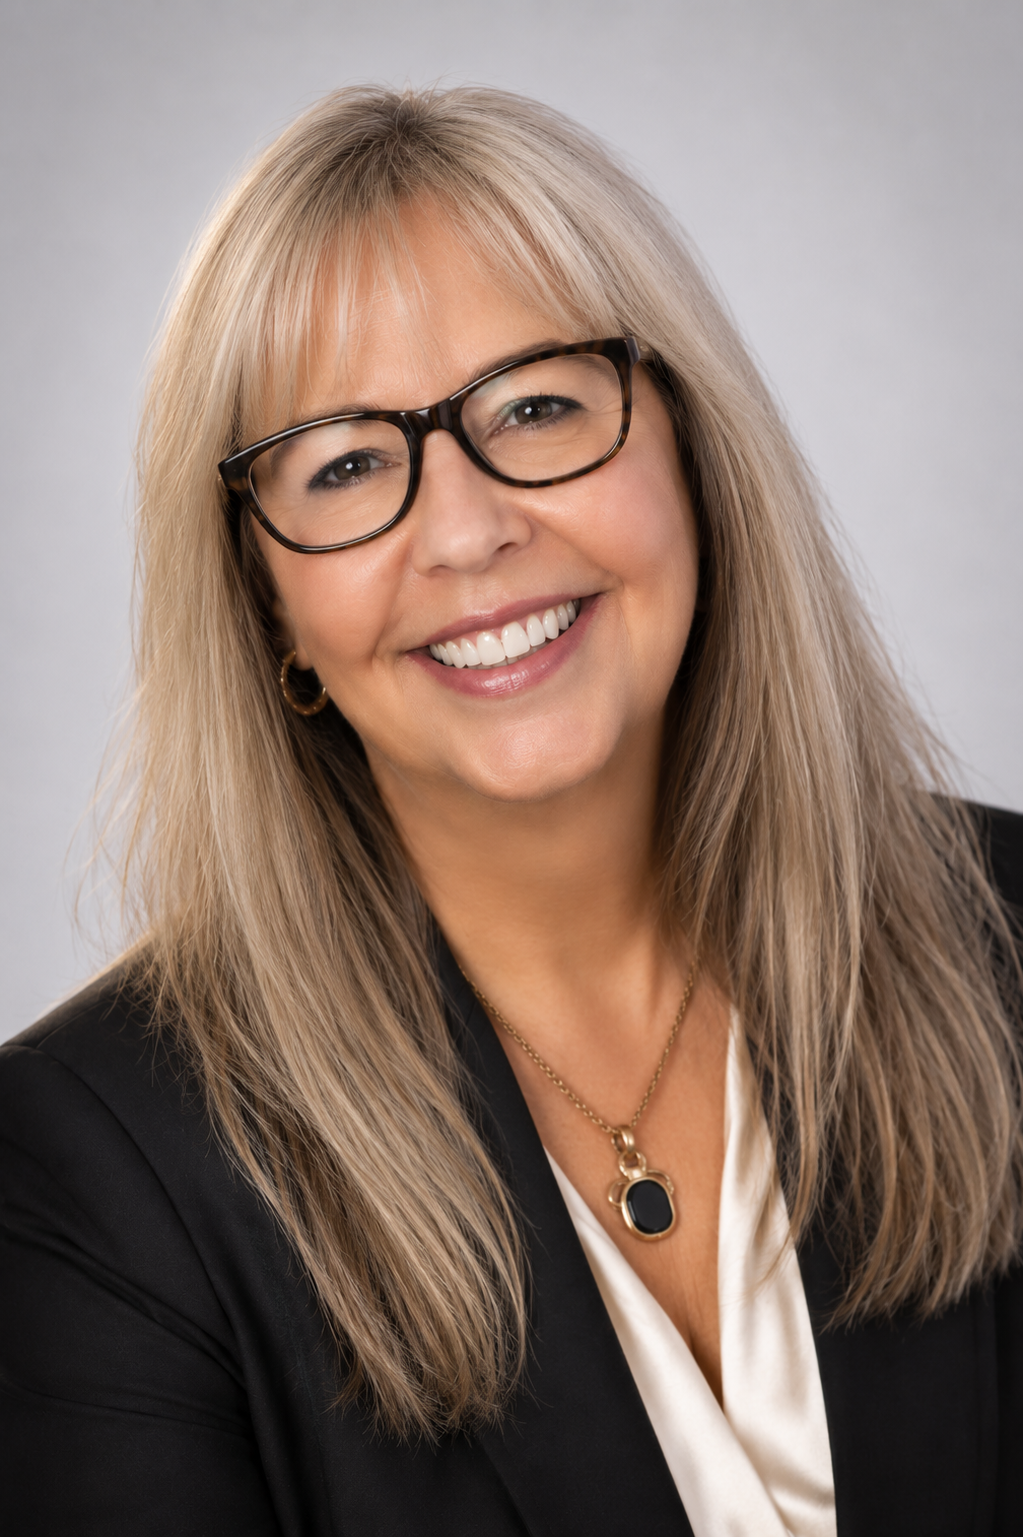
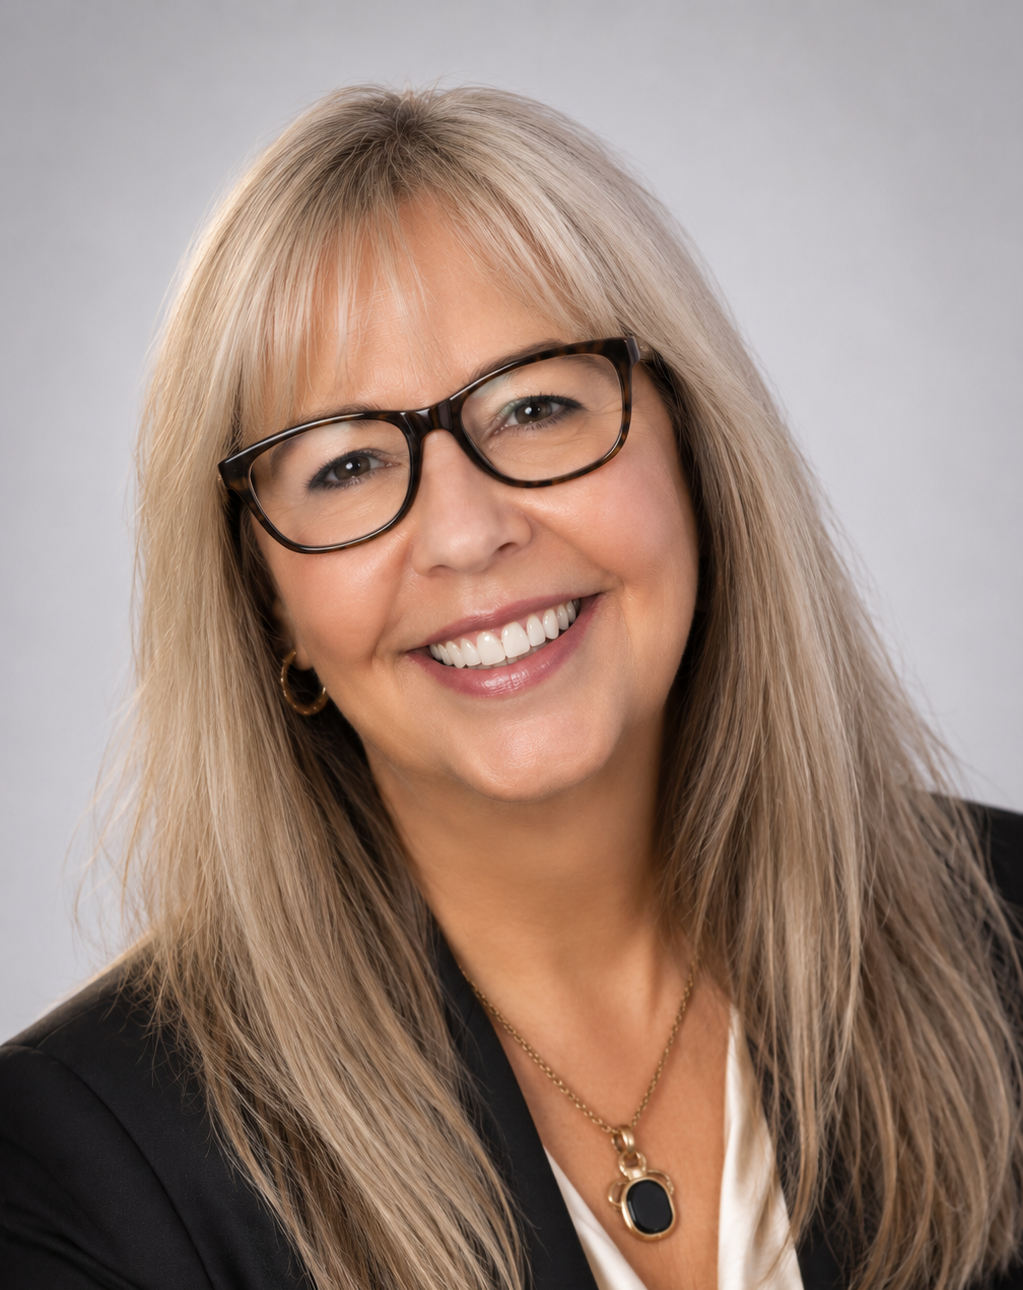
Update team roster, brand story, and site stats
Overhaul the team section with real members and titles (Skip B., Raphael P., Beth H., Meadow D., Sasha V., Flactoid J., Liz P.), update brand story timeline copy, change "Free Shipping 50+" to "Philanthropy Forward", and replace "4 Service Areas" with "$40k+ Raised for Charity". Add new team photos and CLAUDE.md project docs.

diff --git a/index.html b/index.html
@@ -231,7 +231,7 @@
         </div>
         <div class="flex items-center gap-2">
           <svg class="w-5 h-5 text-brand-green-deep" fill="currentColor" viewBox="0 0 20 20"><path fill-rule="evenodd" d="M10 18a8 8 0 100-16 8 8 0 000 16zm3.707-9.293a1 1 0 00-1.414-1.414L9 10.586 7.707 9.293a1 1 0 00-1.414 1.414l2 2a1 1 0 001.414 0l4-4z" clip-rule="evenodd"/></svg>
-          Free Shipping 50+
+          Philanthropy Forward
         </div>
         <div class="flex items-center gap-2">
           <svg class="w-5 h-5 text-brand-green-deep" fill="currentColor" viewBox="0 0 20 20"><path fill-rule="evenodd" d="M10 18a8 8 0 100-16 8 8 0 000 16zm3.707-9.293a1 1 0 00-1.414-1.414L9 10.586 7.707 9.293a1 1 0 00-1.414 1.414l2 2a1 1 0 001.414 0l4-4z" clip-rule="evenodd"/></svg>
@@ -277,8 +277,8 @@
               <div class="text-sm text-brand-charcoal/60 dark:text-gray-400 mt-1">Happy Customers</div>
             </div>
             <div class="text-center">
-              <div class="font-serif text-3xl md:text-4xl text-brand-green-deep font-bold">4</div>
-              <div class="text-sm text-brand-charcoal/60 dark:text-gray-400 mt-1">Service Areas</div>
+              <div class="font-serif text-3xl md:text-4xl text-brand-green-deep font-bold">$40k+</div>
+              <div class="text-sm text-brand-charcoal/60 dark:text-gray-400 mt-1">Raised for Charity</div>
             </div>
             <div class="text-center">
               <div class="font-serif text-3xl md:text-4xl text-brand-green-deep font-bold">100%</div>
@@ -346,7 +346,7 @@
       <div class="max-w-3xl mx-auto text-center reveal">
         <span class="inline-block text-brand-green-deep font-semibold text-sm tracking-widest uppercase mb-4">Our Story</span>
         <h2 class="font-serif text-3xl md:text-4xl lg:text-5xl text-brand-charcoal dark:text-white mb-8">
-          From a Napkin Sketch to a Movement
+          From a Thought to a Movement
         </h2>
       </div>
 
@@ -359,7 +359,7 @@
           </div>
           <div class="pb-8">
             <h3 class="font-serif text-xl text-brand-charcoal dark:text-white mb-2">The Spark</h3>
-            <p class="text-brand-charcoal/70 dark:text-gray-300 leading-relaxed">It all started with a doodle during a late-night study session. A cow with glasses, holding a book about spinach. The character was so endearing that friends started asking for stickers, then shirts, then more. Spinach the Cow was born from a genuine love of learning and a belief that education should feel joyful — not like a chore.</p>
+            <p class="text-brand-charcoal/70 dark:text-gray-300 leading-relaxed">It all started with a bored doodle during a breakout session. A cow with glasses, holding a book. The character was so endearing that friends started asking for stickers, then shirts, then more. Spinach the Cow was born from a genuine love of learning and a belief that education should feel joyful — not like a chore.</p>
           </div>
         </div>
 
@@ -370,7 +370,7 @@
           </div>
           <div class="pb-8">
             <h3 class="font-serif text-xl text-brand-charcoal dark:text-white mb-2">Growing the Herd</h3>
-            <p class="text-brand-charcoal/70 dark:text-gray-300 leading-relaxed">What began as a small Etsy shop became something bigger. We launched our first children's book, built a community of thousands who believe in lifting each other up, and created a brand that stands for something real. Every product was designed with intention: to spark conversation, encourage growth, and bring people together.</p>
+            <p class="text-brand-charcoal/70 dark:text-gray-300 leading-relaxed">What began as a small Shopify store became something bigger. We are building a community of thousands who believe in lifting each other up, and created a brand that stands for something real. Every product was designed with intention: to spark conversation, encourage growth, and bring people together.</p>
           </div>
         </div>
 
@@ -379,8 +379,8 @@
             <div class="w-12 h-12 rounded-full bg-brand-green-deep text-white flex items-center justify-center font-bold text-sm shrink-0">2026</div>
           </div>
           <div>
-            <h3 class="font-serif text-xl text-brand-charcoal dark:text-white mb-2">The Future is Green</h3>
-            <p class="text-brand-charcoal/70 dark:text-gray-300 leading-relaxed">Today, Spinach the Cow is more than merchandise — it's a movement. We're expanding into home goods, wellness products, and educational content. Our mission remains the same: help others, strengthen our community, and inspire everyone to be the best version of themselves. And yes, Spinach still loves her books.</p>
+            <h3 class="font-serif text-xl text-brand-charcoal dark:text-white mb-2">The Future is Spinach</h3>
+            <p class="text-brand-charcoal/70 dark:text-gray-300 leading-relaxed">Today, Spinach the Cow is more than merchandise — it's a movement. We're expanding into engagning and educational content. Our mission remains the same: help others, strengthen our community, and inspire everyone to be the best version of themselves.</p>
           </div>
         </div>
       </div>
@@ -459,10 +459,10 @@
 
       <div class="grid sm:grid-cols-2 md:grid-cols-3 lg:grid-cols-4 gap-6">
 
-        <!-- Andrew — Founder -->
+        <!-- Andrew M. — Founder -->
         <div class="reveal card-hover bg-brand-cream dark:bg-gray-800 rounded-2xl overflow-hidden shadow-sm">
           <div class="aspect-square relative overflow-hidden">
-            <img src="images/team/Andrew.jpg" alt="Andrew — Founder" class="w-full h-full object-cover" onerror="this.style.display='none'; this.nextElementSibling.style.display='flex';" />
+            <img src="images/team/Andrew.png" alt="Andrew M. — Founder" class="w-full h-full object-cover" onerror="this.style.display='none'; this.nextElementSibling.style.display='flex';" />
             <div class="absolute inset-0 bg-gradient-to-br from-brand-green/40 to-brand-beige/40 items-center justify-center hidden">
               <div class="w-20 h-20 rounded-full bg-white/80 flex items-center justify-center">
                 <svg class="w-10 h-10 text-brand-charcoal/30" fill="currentColor" viewBox="0 0 24 24"><path d="M12 12c2.21 0 4-1.79 4-4s-1.79-4-4-4-4 1.79-4 4 1.79 4 4 4zm0 2c-2.67 0-8 1.34-8 4v2h16v-2c0-2.66-5.33-4-8-4z"/></svg>
@@ -470,16 +470,16 @@
             </div>
           </div>
           <div class="p-5">
-            <h3 class="font-serif text-lg text-brand-charcoal dark:text-white">Andrew</h3>
+            <h3 class="font-serif text-lg text-brand-charcoal dark:text-white">Andrew M.</h3>
             <p class="text-sm font-semibold text-brand-green-deep mt-0.5">Founder &amp; Chief Cow Officer</p>
             <p class="text-xs text-brand-charcoal/60 dark:text-gray-400 mt-2 leading-relaxed">The visionary behind Spinach the Cow. Built the herd from scratch and keeps the whole operation mooo-ving.</p>
           </div>
         </div>
 
-        <!-- Bubba — Trend Researcher -->
+        <!-- Skip B. — President -->
         <div class="reveal card-hover bg-brand-cream dark:bg-gray-800 rounded-2xl overflow-hidden shadow-sm">
           <div class="aspect-square relative overflow-hidden">
-            <img src="images/team/Bubba.jpg" alt="Bubba — Trend Researcher" class="w-full h-full object-cover" onerror="this.style.display='none'; this.nextElementSibling.style.display='flex';" />
+            <img src="images/team/Skip.png" alt="Skip B. — President" class="w-full h-full object-cover" onerror="this.style.display='none'; this.nextElementSibling.style.display='flex';" />
             <div class="absolute inset-0 bg-gradient-to-br from-brand-green/40 to-brand-sky/40 items-center justify-center hidden">
               <div class="w-20 h-20 rounded-full bg-white/80 flex items-center justify-center">
                 <svg class="w-10 h-10 text-brand-charcoal/30" fill="currentColor" viewBox="0 0 24 24"><path d="M12 12c2.21 0 4-1.79 4-4s-1.79-4-4-4-4 1.79-4 4 1.79 4 4 4zm0 2c-2.67 0-8 1.34-8 4v2h16v-2c0-2.66-5.33-4-8-4z"/></svg>
@@ -487,16 +487,33 @@
             </div>
           </div>
           <div class="p-5">
-            <h3 class="font-serif text-lg text-brand-charcoal dark:text-white">Bubba</h3>
-            <p class="text-sm font-semibold text-brand-green-deep mt-0.5">Director of Market Intelligence</p>
-            <p class="text-xs text-brand-charcoal/60 dark:text-gray-400 mt-2 leading-relaxed">Scrapes Google Trends, Reddit, and the seasonal calendar to find what's next before everyone else does.</p>
+            <h3 class="font-serif text-lg text-brand-charcoal dark:text-white">Skip B.</h3>
+            <p class="text-sm font-semibold text-brand-green-deep mt-0.5">President</p>
+            <p class="text-xs text-brand-charcoal/60 dark:text-gray-400 mt-2 leading-relaxed">The steady hand at the helm. Skip keeps the herd aligned, the mission on track, and the culture strong.</p>
           </div>
         </div>
 
-        <!-- Clark — Quality Analyst -->
+        <!-- Raphael P. — Chief Operating Officer -->
         <div class="reveal card-hover bg-brand-cream dark:bg-gray-800 rounded-2xl overflow-hidden shadow-sm">
           <div class="aspect-square relative overflow-hidden">
-            <img src="images/team/Clark.jpg" alt="Clark — Quality Analyst" class="w-full h-full object-cover" onerror="this.style.display='none'; this.nextElementSibling.style.display='flex';" />
+            <img src="images/team/Raphael.png" alt="Raphael P. — Chief Operating Officer" class="w-full h-full object-cover" onerror="this.style.display='none'; this.nextElementSibling.style.display='flex';" />
+            <div class="absolute inset-0 bg-gradient-to-br from-brand-green/40 to-brand-sky/40 items-center justify-center hidden">
+              <div class="w-20 h-20 rounded-full bg-white/80 flex items-center justify-center">
+                <svg class="w-10 h-10 text-brand-charcoal/30" fill="currentColor" viewBox="0 0 24 24"><path d="M12 12c2.21 0 4-1.79 4-4s-1.79-4-4-4-4 1.79-4 4 1.79 4 4 4zm0 2c-2.67 0-8 1.34-8 4v2h16v-2c0-2.66-5.33-4-8-4z"/></svg>
+              </div>
+            </div>
+          </div>
+          <div class="p-5">
+            <h3 class="font-serif text-lg text-brand-charcoal dark:text-white">Raphael P.</h3>
+            <p class="text-sm font-semibold text-brand-green-deep mt-0.5">Chief Operating Officer</p>
+            <p class="text-xs text-brand-charcoal/60 dark:text-gray-400 mt-2 leading-relaxed">Leading the amazing teams behind the scenes that bring our sustainable lifestyle designs from concept to your doorstep.</p>
+          </div>
+        </div>
+
+        <!-- Beth H. — Chief Financial Officer -->
+        <div class="reveal card-hover bg-brand-cream dark:bg-gray-800 rounded-2xl overflow-hidden shadow-sm">
+          <div class="aspect-square relative overflow-hidden">
+            <img src="images/team/Beth.png" alt="Beth H. — Chief Financial Officer" class="w-full h-full object-cover" onerror="this.style.display='none'; this.nextElementSibling.style.display='flex';" />
             <div class="absolute inset-0 bg-gradient-to-br from-brand-sky/40 to-brand-beige/40 items-center justify-center hidden">
               <div class="w-20 h-20 rounded-full bg-white/80 flex items-center justify-center">
                 <svg class="w-10 h-10 text-brand-charcoal/30" fill="currentColor" viewBox="0 0 24 24"><path d="M12 12c2.21 0 4-1.79 4-4s-1.79-4-4-4-4 1.79-4 4 1.79 4 4 4zm0 2c-2.67 0-8 1.34-8 4v2h16v-2c0-2.66-5.33-4-8-4z"/></svg>
@@ -504,50 +521,33 @@
             </div>
           </div>
           <div class="p-5">
-            <h3 class="font-serif text-lg text-brand-charcoal dark:text-white">Clark</h3>
-            <p class="text-sm font-semibold text-brand-green-deep mt-0.5">Head of Quality Assurance</p>
-            <p class="text-xs text-brand-charcoal/60 dark:text-gray-400 mt-2 leading-relaxed">Scores every trend, filters by threshold, and runs risk checks so only the best ideas make the cut.</p>
+            <h3 class="font-serif text-lg text-brand-charcoal dark:text-white">Beth H.</h3>
+            <p class="text-sm font-semibold text-brand-green-deep mt-0.5">Chief Financial Officer</p>
+            <p class="text-xs text-brand-charcoal/60 dark:text-gray-400 mt-2 leading-relaxed">Balancing fiscal responsibility with creative ambition to responsibly scale the brand our community loves.</p>
           </div>
         </div>
 
-        <!-- Lewis — Visual Designer -->
+        <!-- Meadow D. — Creative Director -->
         <div class="reveal card-hover bg-brand-cream dark:bg-gray-800 rounded-2xl overflow-hidden shadow-sm">
           <div class="aspect-square relative overflow-hidden">
-            <img src="images/team/Lewis.jpg" alt="Lewis — Visual Designer" class="w-full h-full object-cover" onerror="this.style.display='none'; this.nextElementSibling.style.display='flex';" />
-            <div class="absolute inset-0 bg-gradient-to-br from-brand-beige/40 to-brand-green/40 items-center justify-center hidden">
+            <img src="images/team/Meadow.png" alt="Meadow D. — Creative Director" class="w-full h-full object-cover" onerror="this.style.display='none'; this.nextElementSibling.style.display='flex';" />
+            <div class="absolute inset-0 bg-gradient-to-br from-brand-beige/40 to-brand-sky/40 items-center justify-center hidden">
               <div class="w-20 h-20 rounded-full bg-white/80 flex items-center justify-center">
                 <svg class="w-10 h-10 text-brand-charcoal/30" fill="currentColor" viewBox="0 0 24 24"><path d="M12 12c2.21 0 4-1.79 4-4s-1.79-4-4-4-4 1.79-4 4 1.79 4 4 4zm0 2c-2.67 0-8 1.34-8 4v2h16v-2c0-2.66-5.33-4-8-4z"/></svg>
               </div>
             </div>
           </div>
           <div class="p-5">
-            <h3 class="font-serif text-lg text-brand-charcoal dark:text-white">Lewis</h3>
-            <p class="text-sm font-semibold text-brand-green-deep mt-0.5">Lead Visual Artist</p>
-            <p class="text-xs text-brand-charcoal/60 dark:text-gray-400 mt-2 leading-relaxed">Brings ideas to life with stunning visuals and creative designs.</p>
+            <h3 class="font-serif text-lg text-brand-charcoal dark:text-white">Meadow D.</h3>
+            <p class="text-sm font-semibold text-brand-green-deep mt-0.5">Chief Creative Officer</p>
+            <p class="text-xs text-brand-charcoal/60 dark:text-gray-400 mt-2 leading-relaxed">Drew's Mind — the personal ideas engine that shapes the creative vision behind everything Spinach.</p>
           </div>
         </div>
 
-        <!-- Flactoid Johnson — Text Designer -->
+         <!-- Sasha V. — Director of Innovation & Design -->
         <div class="reveal card-hover bg-brand-cream dark:bg-gray-800 rounded-2xl overflow-hidden shadow-sm">
           <div class="aspect-square relative overflow-hidden">
-            <img src="images/team/Flactoid.png" alt="Flactoid Johnson — Text Designer" class="w-full h-full object-cover" onerror="this.style.display='none'; this.nextElementSibling.style.display='flex';" />
-            <div class="absolute inset-0 bg-gradient-to-br from-brand-green/40 to-brand-beige/40 items-center justify-center hidden">
-              <div class="w-20 h-20 rounded-full bg-white/80 flex items-center justify-center">
-                <svg class="w-10 h-10 text-brand-charcoal/30" fill="currentColor" viewBox="0 0 24 24"><path d="M12 12c2.21 0 4-1.79 4-4s-1.79-4-4-4-4 1.79-4 4 1.79 4 4 4zm0 2c-2.67 0-8 1.34-8 4v2h16v-2c0-2.66-5.33-4-8-4z"/></svg>
-              </div>
-            </div>
-          </div>
-          <div class="p-5">
-            <h3 class="font-serif text-lg text-brand-charcoal dark:text-white">Flactoid Johnson</h3>
-            <p class="text-sm font-semibold text-brand-green-deep mt-0.5">Typography &amp; Copy Lead</p>
-            <p class="text-xs text-brand-charcoal/60 dark:text-gray-400 mt-2 leading-relaxed">Crafts bold typographic designs and slogans that give every product its voice and personality.</p>
-          </div>
-        </div>
-
-        <!-- Sasha — Collection Manager -->
-        <div class="reveal card-hover bg-brand-cream dark:bg-gray-800 rounded-2xl overflow-hidden shadow-sm">
-          <div class="aspect-square relative overflow-hidden">
-            <img src="images/team/Sasha.png" alt="Sasha — Collection Manager" class="w-full h-full object-cover" onerror="this.style.display='none'; this.nextElementSibling.style.display='flex';" />
+            <img src="images/team/Sasha.png" alt="Sasha V. — Director of Innovation & Design" class="w-full h-full object-cover" onerror="this.style.display='none'; this.nextElementSibling.style.display='flex';" />
             <div class="absolute inset-0 bg-gradient-to-br from-brand-sky/40 to-brand-green/40 items-center justify-center hidden">
               <div class="w-20 h-20 rounded-full bg-white/80 flex items-center justify-center">
                 <svg class="w-10 h-10 text-brand-charcoal/30" fill="currentColor" viewBox="0 0 24 24"><path d="M12 12c2.21 0 4-1.79 4-4s-1.79-4-4-4-4 1.79-4 4 1.79 4 4 4zm0 2c-2.67 0-8 1.34-8 4v2h16v-2c0-2.66-5.33-4-8-4z"/></svg>
@@ -555,84 +555,16 @@
             </div>
           </div>
           <div class="p-5">
-            <h3 class="font-serif text-lg text-brand-charcoal dark:text-white">Sasha</h3>
-            <p class="text-sm font-semibold text-brand-green-deep mt-0.5">Head of Collections</p>
-            <p class="text-xs text-brand-charcoal/60 dark:text-gray-400 mt-2 leading-relaxed">Builds themed collections and coordinates designs so every drop tells a cohesive story.</p>
+            <h3 class="font-serif text-lg text-brand-charcoal dark:text-white">Sasha V.</h3>
+            <p class="text-sm font-semibold text-brand-green-deep mt-0.5">Director of Innovation & Design</p>
+            <p class="text-xs text-brand-charcoal/60 dark:text-gray-400 mt-2 leading-relaxed">Leading the research, concept development, and creative design strategy to bring next-generation lifestyle products to market.</p>
           </div>
         </div>
 
-        <!-- Tony — Creative Director -->
+        <!-- Flactoid J. — Director of Application Development -->
         <div class="reveal card-hover bg-brand-cream dark:bg-gray-800 rounded-2xl overflow-hidden shadow-sm">
           <div class="aspect-square relative overflow-hidden">
-            <img src="images/team/Tony.png" alt="Tony — Creative Director" class="w-full h-full object-cover" onerror="this.style.display='none'; this.nextElementSibling.style.display='flex';" />
-            <div class="absolute inset-0 bg-gradient-to-br from-brand-beige/40 to-brand-sky/40 items-center justify-center hidden">
-              <div class="w-20 h-20 rounded-full bg-white/80 flex items-center justify-center">
-                <svg class="w-10 h-10 text-brand-charcoal/30" fill="currentColor" viewBox="0 0 24 24"><path d="M12 12c2.21 0 4-1.79 4-4s-1.79-4-4-4-4 1.79-4 4 1.79 4 4 4zm0 2c-2.67 0-8 1.34-8 4v2h16v-2c0-2.66-5.33-4-8-4z"/></svg>
-              </div>
-            </div>
-          </div>
-          <div class="p-5">
-            <h3 class="font-serif text-lg text-brand-charcoal dark:text-white">Tony</h3>
-            <p class="text-sm font-semibold text-brand-green-deep mt-0.5">Chief Creative Officer</p>
-            <p class="text-xs text-brand-charcoal/60 dark:text-gray-400 mt-2 leading-relaxed">Drew's Mind — the personal ideas engine that shapes the creative vision behind everything Spinach.</p>
-          </div>
-        </div>
-
-        <!-- Charlie — Product Engineer -->
-        <div class="reveal card-hover bg-brand-cream dark:bg-gray-800 rounded-2xl overflow-hidden shadow-sm">
-          <div class="aspect-square relative overflow-hidden">
-            <img src="images/team/Charlie.png" alt="Charlie — Product Engineer" class="w-full h-full object-cover" onerror="this.style.display='none'; this.nextElementSibling.style.display='flex';" />
-            <div class="absolute inset-0 bg-gradient-to-br from-brand-green/40 to-brand-sky/40 items-center justify-center hidden">
-              <div class="w-20 h-20 rounded-full bg-white/80 flex items-center justify-center">
-                <svg class="w-10 h-10 text-brand-charcoal/30" fill="currentColor" viewBox="0 0 24 24"><path d="M12 12c2.21 0 4-1.79 4-4s-1.79-4-4-4-4 1.79-4 4 1.79 4 4 4zm0 2c-2.67 0-8 1.34-8 4v2h16v-2c0-2.66-5.33-4-8-4z"/></svg>
-              </div>
-            </div>
-          </div>
-          <div class="p-5">
-            <h3 class="font-serif text-lg text-brand-charcoal dark:text-white">Charlie</h3>
-            <p class="text-sm font-semibold text-brand-green-deep mt-0.5">Director of Product Development</p>
-            <p class="text-xs text-brand-charcoal/60 dark:text-gray-400 mt-2 leading-relaxed">Creates Printify products and manages mockups — turning designs into real, shippable merch.</p>
-          </div>
-        </div>
-
-        <!-- Kelly — Marketing Manager -->
-        <div class="reveal card-hover bg-brand-cream dark:bg-gray-800 rounded-2xl overflow-hidden shadow-sm">
-          <div class="aspect-square relative overflow-hidden">
-            <img src="images/team/Kelly.png" alt="Kelly — Marketing Manager" class="w-full h-full object-cover" onerror="this.style.display='none'; this.nextElementSibling.style.display='flex';" />
-            <div class="absolute inset-0 bg-gradient-to-br from-brand-beige/40 to-brand-green/40 items-center justify-center hidden">
-              <div class="w-20 h-20 rounded-full bg-white/80 flex items-center justify-center">
-                <svg class="w-10 h-10 text-brand-charcoal/30" fill="currentColor" viewBox="0 0 24 24"><path d="M12 12c2.21 0 4-1.79 4-4s-1.79-4-4-4-4 1.79-4 4 1.79 4 4 4zm0 2c-2.67 0-8 1.34-8 4v2h16v-2c0-2.66-5.33-4-8-4z"/></svg>
-              </div>
-            </div>
-          </div>
-          <div class="p-5">
-            <h3 class="font-serif text-lg text-brand-charcoal dark:text-white">Kelly</h3>
-            <p class="text-sm font-semibold text-brand-green-deep mt-0.5">Director of Marketing &amp; Growth</p>
-            <p class="text-xs text-brand-charcoal/60 dark:text-gray-400 mt-2 leading-relaxed">Generates social copy across all channels — from Instagram captions to email campaigns that convert.</p>
-          </div>
-        </div>
-
-        <!-- Beth — Finance Analyst -->
-        <div class="reveal card-hover bg-brand-cream dark:bg-gray-800 rounded-2xl overflow-hidden shadow-sm">
-          <div class="aspect-square relative overflow-hidden">
-            <img src="images/team/Beth.png" alt="Beth — Finance Analyst" class="w-full h-full object-cover" onerror="this.style.display='none'; this.nextElementSibling.style.display='flex';" />
-            <div class="absolute inset-0 bg-gradient-to-br from-brand-sky/40 to-brand-beige/40 items-center justify-center hidden">
-              <div class="w-20 h-20 rounded-full bg-white/80 flex items-center justify-center">
-                <svg class="w-10 h-10 text-brand-charcoal/30" fill="currentColor" viewBox="0 0 24 24"><path d="M12 12c2.21 0 4-1.79 4-4s-1.79-4-4-4-4 1.79-4 4 1.79 4 4 4zm0 2c-2.67 0-8 1.34-8 4v2h16v-2c0-2.66-5.33-4-8-4z"/></svg>
-              </div>
-            </div>
-          </div>
-          <div class="p-5">
-            <h3 class="font-serif text-lg text-brand-charcoal dark:text-white">Beth</h3>
-            <p class="text-sm font-semibold text-brand-green-deep mt-0.5">Director of Finance</p>
-            <p class="text-xs text-brand-charcoal/60 dark:text-gray-400 mt-2 leading-relaxed">Tracks API costs and spending to keep the operation lean, efficient, and profitable.</p>
-          </div>
-        </div>
-
-        <!-- Mark — Pipeline Orchestrator -->
-        <div class="reveal card-hover bg-brand-cream dark:bg-gray-800 rounded-2xl overflow-hidden shadow-sm">
-          <div class="aspect-square relative overflow-hidden">
-            <img src="images/team/Mark.png" alt="Mark — Pipeline Orchestrator" class="w-full h-full object-cover" onerror="this.style.display='none'; this.nextElementSibling.style.display='flex';" />
+            <img src="images/team/Flactoid.png" alt="Flactoid J. — Director of Application Development" class="w-full h-full object-cover" onerror="this.style.display='none'; this.nextElementSibling.style.display='flex';" />
             <div class="absolute inset-0 bg-gradient-to-br from-brand-green/40 to-brand-beige/40 items-center justify-center hidden">
               <div class="w-20 h-20 rounded-full bg-white/80 flex items-center justify-center">
                 <svg class="w-10 h-10 text-brand-charcoal/30" fill="currentColor" viewBox="0 0 24 24"><path d="M12 12c2.21 0 4-1.79 4-4s-1.79-4-4-4-4 1.79-4 4 1.79 4 4 4zm0 2c-2.67 0-8 1.34-8 4v2h16v-2c0-2.66-5.33-4-8-4z"/></svg>
@@ -640,29 +572,28 @@
             </div>
           </div>
           <div class="p-5">
-            <h3 class="font-serif text-lg text-brand-charcoal dark:text-white">Mark</h3>
-            <p class="text-sm font-semibold text-brand-green-deep mt-0.5">Head of Operations</p>
-            <p class="text-xs text-brand-charcoal/60 dark:text-gray-400 mt-2 leading-relaxed">Runs the Sunday batch and keeps the entire team in order — the conductor of the Spinach symphony.</p>
+            <h3 class="font-serif text-lg text-brand-charcoal dark:text-white">Flactoid J.</h3>
+            <p class="text-sm font-semibold text-brand-green-deep mt-0.5">Director of Application Development</p>
+            <p class="text-xs text-brand-charcoal/60 dark:text-gray-400 mt-2 leading-relaxed">Leading the engineering teams that build, scale, and maintain our high-performance mobile and web applications.</p>
           </div>
         </div>
 
-        <!-- John — Review Manager -->
+        <!-- Liz P. — Director of Social Impact & Partnerships  -->
         <div class="reveal card-hover bg-brand-cream dark:bg-gray-800 rounded-2xl overflow-hidden shadow-sm">
           <div class="aspect-square relative overflow-hidden">
-            <img src="images/team/John.png" alt="John — Review Manager" class="w-full h-full object-cover" onerror="this.style.display='none'; this.nextElementSibling.style.display='flex';" />
-            <div class="absolute inset-0 bg-gradient-to-br from-brand-beige/40 to-brand-sky/40 items-center justify-center hidden">
+            <img src="images/team/Liz.png" alt="Liz P. — Director of Social Impact & Partnerships" class="w-full h-full object-cover" onerror="this.style.display='none'; this.nextElementSibling.style.display='flex';" />
+            <div class="absolute inset-0 bg-gradient-to-br from-brand-green/40 to-brand-sky/40 items-center justify-center hidden">
               <div class="w-20 h-20 rounded-full bg-white/80 flex items-center justify-center">
                 <svg class="w-10 h-10 text-brand-charcoal/30" fill="currentColor" viewBox="0 0 24 24"><path d="M12 12c2.21 0 4-1.79 4-4s-1.79-4-4-4-4 1.79-4 4 1.79 4 4 4zm0 2c-2.67 0-8 1.34-8 4v2h16v-2c0-2.66-5.33-4-8-4z"/></svg>
               </div>
             </div>
           </div>
           <div class="p-5">
-            <h3 class="font-serif text-lg text-brand-charcoal dark:text-white">John</h3>
-            <p class="text-sm font-semibold text-brand-green-deep mt-0.5">Editorial Director</p>
-            <p class="text-xs text-brand-charcoal/60 dark:text-gray-400 mt-2 leading-relaxed">Approve, reject, or delay — John makes the final call before anything goes live.</p>
+            <h3 class="font-serif text-lg text-brand-charcoal dark:text-white">Liz P.</h3>
+            <p class="text-sm font-semibold text-brand-green-deep mt-0.5">Director of Social Impact & Partnerships</p>
+            <p class="text-xs text-brand-charcoal/60 dark:text-gray-400 mt-2 leading-relaxed">Connecting our brand with inspiring non-profits to co-create meaningful events that give back to our world.</p>
           </div>
         </div>
-
       </div>
     </div>
   </section>

diff --git a/CLAUDE.md b/CLAUDE.md
@@ -1,0 +1,65 @@
+# Spinach the Cow — STC-HQ
+
+## Project overview
+
+Marketing website for **Spinach the Cow**, a wholesome lifestyle brand based in Ocean City, MD. The site covers the brand story, team, blog teasers, contact form, and links out to the Shopify store at `shop.spinachthecow.com`.
+
+## Tech stack
+
+- **Pure HTML/CSS/JS** — no build step, no framework, no bundler
+- **Tailwind CSS** via CDN (`cdn.tailwindcss.com`) with inline config
+- **Fonts**: DM Sans + DM Serif Display (Google Fonts)
+- **EmailJS** for the Join Our Team form (currently hidden, credentials not yet configured)
+- **Hosting**: GitHub Pages or static hosting (served as plain files)
+
+## File structure
+
+```
+index.html          — Main single-page site (all sections in one file)
+privacy.html        — Privacy policy
+terms.html          — Terms of service
+cookies.html        — Cookie policy
+accessibility.html  — Accessibility statement
+images/Logo.png     — Brand logo
+images/team/        — Team member photos (Andrew, Bubba, Clark, Lewis, Flactoid, Sasha, Tony, Charlie, Kelly, Beth, Mark, John)
+Staff/              — Source team photos (originals)
+```
+
+## Brand colors (Tailwind custom)
+
+| Token             | Hex       |
+|--------------------|-----------|
+| `brand-green`      | `#A8D5A0` |
+| `brand-green-deep` | `#4A9E3F` |
+| `brand-green-dark` | `#357A2B` |
+| `brand-sky`        | `#B8DFF0` |
+| `brand-beige`      | `#E8C87A` |
+| `brand-cream`      | `#FAF8F5` |
+| `brand-charcoal`   | `#2D2D2D` |
+
+## Key sections in index.html
+
+Hero, About, Shop (featured product + CTA), Our Story (timeline), Our Values, Our Team (12 members), Testimonials, Blog Teaser, Contact Form, Join Our Team (hidden), Newsletter Banner, Footer.
+
+## Development
+
+No install or build needed. Open `index.html` in a browser or serve with any static server:
+
+```sh
+npx serve .
+```
+
+## Conventions
+
+- Dark mode supported via Tailwind `dark:` classes, toggled with a button that persists to localStorage
+- Scroll-reveal animations use IntersectionObserver with `.reveal` / `.visible` classes
+- Team photos fall back to gradient placeholders via `onerror` on `<img>` tags
+- External links (shop, socials) use `target="_blank" rel="noopener"`
+- The Shopify store is separate — this site links to it but does not embed it
+
+## Things to know
+
+- The "Join Our Team" section (`id="careers"`) exists in the HTML but is hidden with `class="hidden"`. EmailJS credentials are placeholder values.
+- The Tailwind config is inline in a `<script>` tag, not a separate file.
+- There is no CSS file — all custom styles are in a `<style>` block in `index.html`.
+- Legal pages (privacy, terms, cookies, accessibility) share the same Tailwind CDN setup but have their own inline configs.